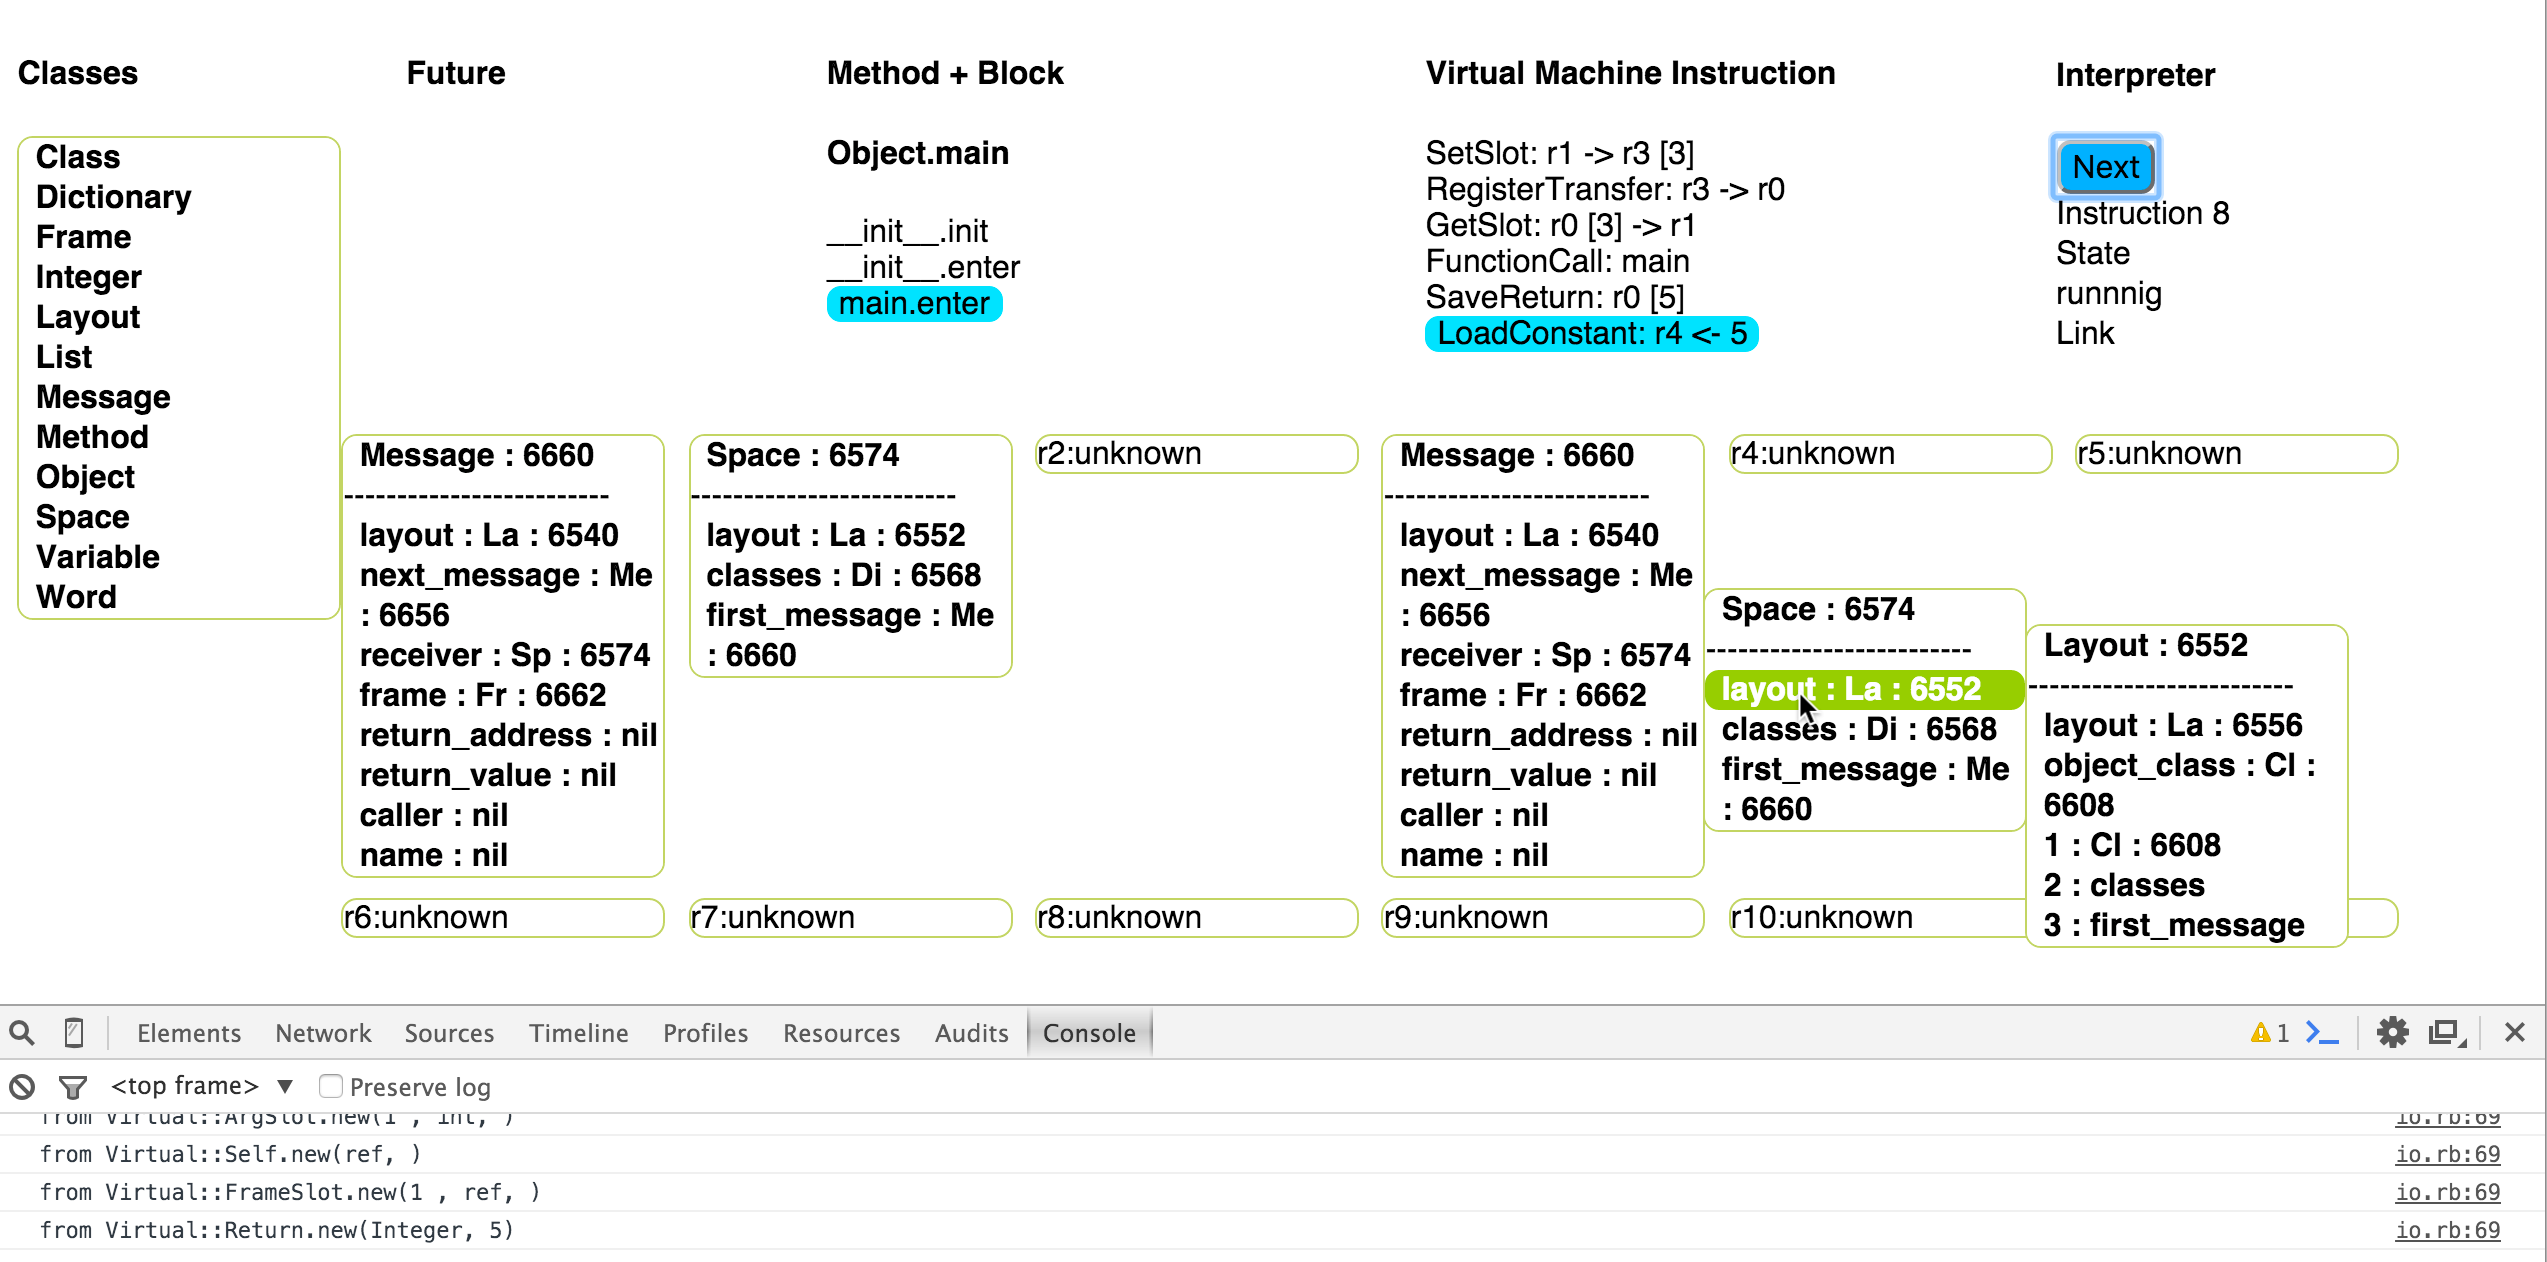
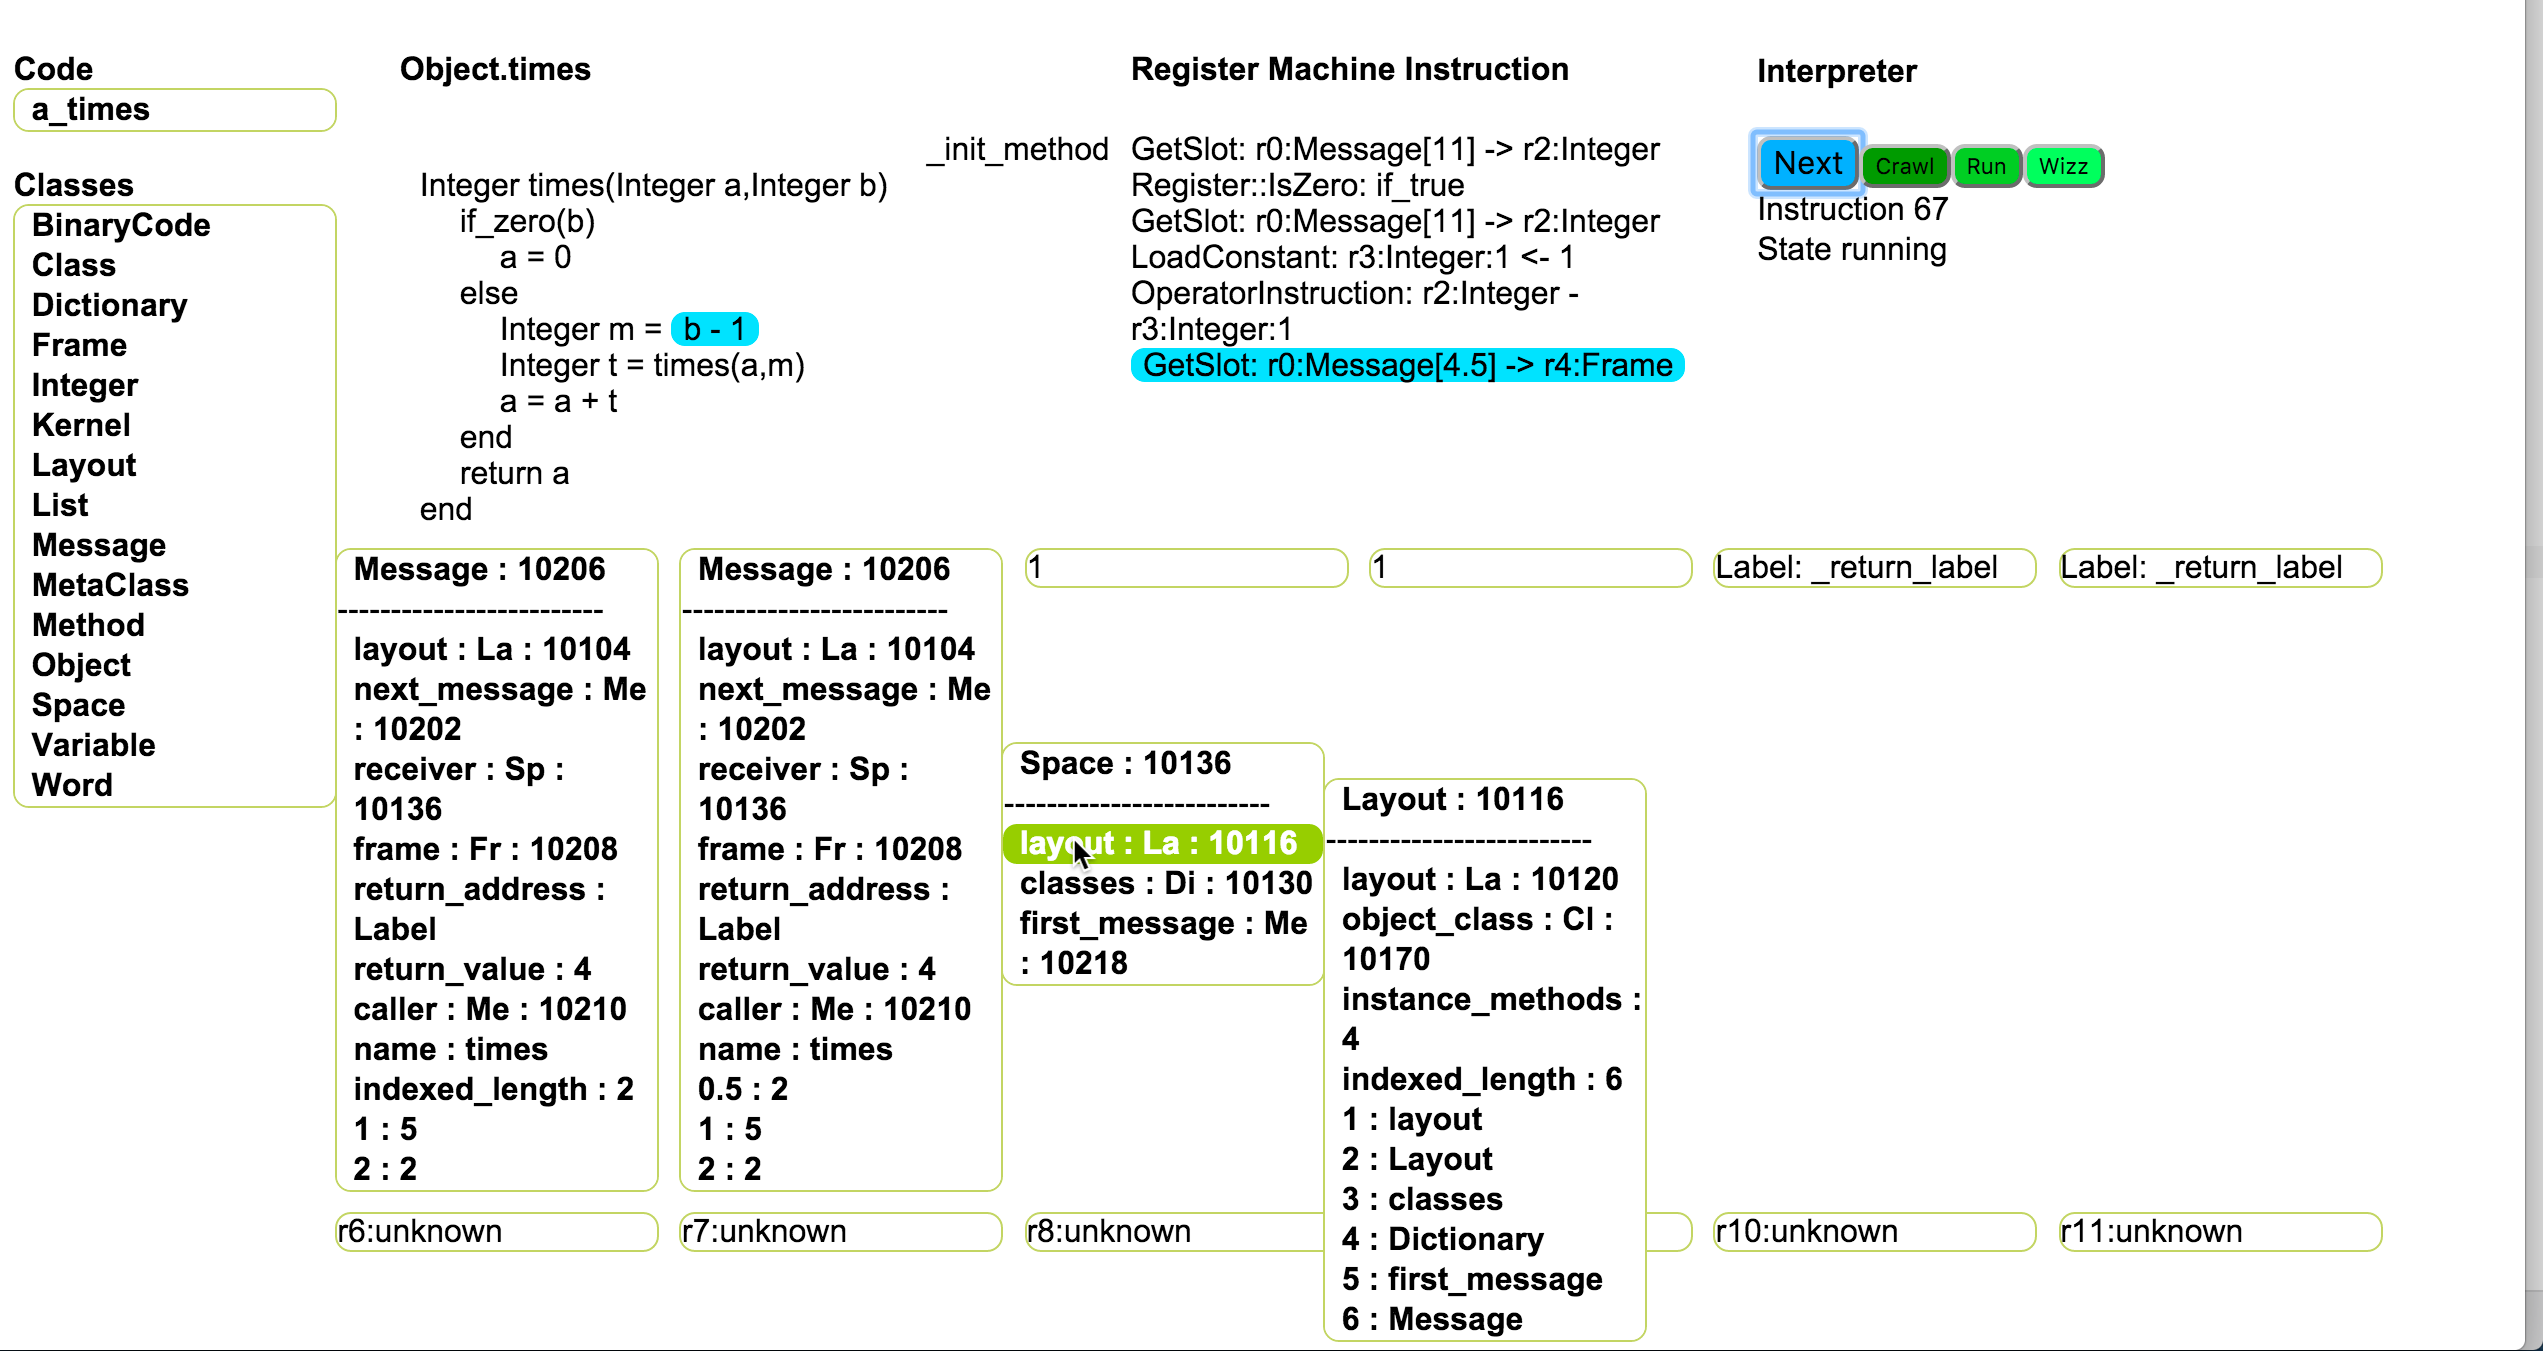
update readme and screenshot

diff --git a/README.md b/README.md
@@ -1,43 +1,109 @@
 # Debugger
 
 After some tryouts it ended up being an Opal application. That is ruby as javascript in the browser.
+Below is a screenshot.
 
 ![Debugger](https://raw.githubusercontent.com/salama/salama-debugger/master/static/debugger.png)
 
-- On the left are the classes of the system. Next idea is to have hover info about them.
-- Next a source code view (not implemented)
-- next a view of the Register Instructions
-- last section, current block with current Register Instruction highlighted
-- step (next) button for single stepping
-- state: starting , running , exited
-- bottom row are the registers. If the register holds an object the variables are shown.
+## Views
 
-## Register View
+From left to right there are several views showing different data and controls.
+All of the green boxes are in fact pop-up menus and can show more information.  
+Most of these are implemented as a single class with the name reflecting what part.
+I wrote 2 base classes that handle element generation (ie there is hardly any html involved, just elements)
+
+### Switch view
+
+Top left at the top is a little control to switch files.
+The files need to be in the repository, but at least one can have several and switch between
+them without stopping the debugger.
+
+Parsing is the only thing that opal chokes on, so the files are parsed by a server script and the
+ast is sent to the browser.
+
+### Classes View
+
+The first column on the left is a list of classes in the system. Like on all boxes one can hover
+over a name to look at the class and it's instance variables (recursively)
+
+
+### Source View
+
+Next is a view of the Soml source. The Source is reconstructed from the ast as html.
+Soml (Salama object machine language) is is a statically typed language,
+maybe in spirit close to c++ (without the c). In the future Salama will compile ruby to soml.
+
+While stepping through the code, those parts of the code that are active get highlighted in blue.
+
+Currently stepping is done only in register instructions, which means that depending on the source
+constructs it may take many steps for the cursor to move on.  
+
+Each step will show progress on the register level though (next view)
+
+
+### Register Instruction view
+
+Salama defines a register machine level which is quite close to the arm machine, but with more
+sensible names. It has 16 registers (below) and an instruction set that is useful for Soml.
+
+Data movement related instruction implement an indexed get and set. There is also Constant load and
+integer operators and off course branches.
+Instructions print their name and used registers r0-r15.
+
+The next instruction to be executed is highlighted in blue. A list of previous instructions is shown.
+
+One can follow the effect of instruction in the register view below.
+
+### Status View
+
+The last view at the top right show the status of the machine (interpreter to be precise), the
+instruction count and any stdout
+
+Current controls include stepping and three speeds of running the program.
+
+- Next (green button) will execute exactly one instruction when clicked. Mostly useful when
+  debugging the compiler, ie inspecting the generated code.
+- Crawl (first blue button) will execute at a moderate speed. One can still follow the
+  logic at the register level
+- Run (second blue button) runs the program at a higher speed where register instruction just
+  whizz by, but one can still follow the source view. Mainly used to verify that the source executes
+  as expected and also to get to a specific place in the program (in the absence of breakpoints)
+- Wizz (third blue button) makes the program run so fast that it's only useful function is to
+  fast forward  in the code (while debugging)
+
+### Register view
+
+The bottom part of the screen is taken up by the 16 register. As we execute an object oriented
+language, we show the object contents if it is an object (not an integer) in a register.
+
+The (virtual) machine only uses objects, and specifically a linked list of Message objects to
+make calls. The current message is always in register 0 (analgous to a stack pointer).
+All other registers are scratch for statement use.
+
+In Soml expressions compile to the register that holds the expressions value and statements may use
+all registers and may not rely on anything other than the message in register 0.
+
 
 The Register view is now greatly improved, especially in it's dynamic features:
 
 - when the contents update the register obviously updates
 - when the object that the register holds updates, the new value is shown immediately
 - hovering over a variable will **expand that variable** .
-- the hovering works recursively, so it is possible to drill pdown into objects for sevaral levels
+- the hovering works recursively, so it is possible to drill down into objects for several levels
 
+The last feature of inspecting objects is show in the screenshot. This makes it possible
+to very quickly verify the programs behaviour. As it is a pure object system , all data is in
+objects, and all objects can be inspected. 
 
 ### Debugging the debugger
 
 Opal is pre 1.0 and is a wip. While current source map support is quite good, one only gets
 real lines when switching debug on. Debug make it load every single file seperately, slooows it
-down in other words. Set DEBUG environement to swithc it on.
+down in other words. Set DEBUG environment to switch it on.
 
 I set the sprockets cache to mem-cache and that increase load time from 12s to 1 , so it's quite
 usable and restarting a debug is fine.
 
 ## Todos
 
-Currently only one source is supported. I change the code.rb file to debug a new problem.
-
-Parsing (parslet) does not work in opal. So s-expressions are used. I use the parser or interpreter
-to spew those out. Having a dropdown would be nice, and not even so difficult, but it happens rarely.
-
 Breakpoints would be nice at some point. Both in step count and variable value.
-
-Seeing the source code should be possible, just have to keep it around.
